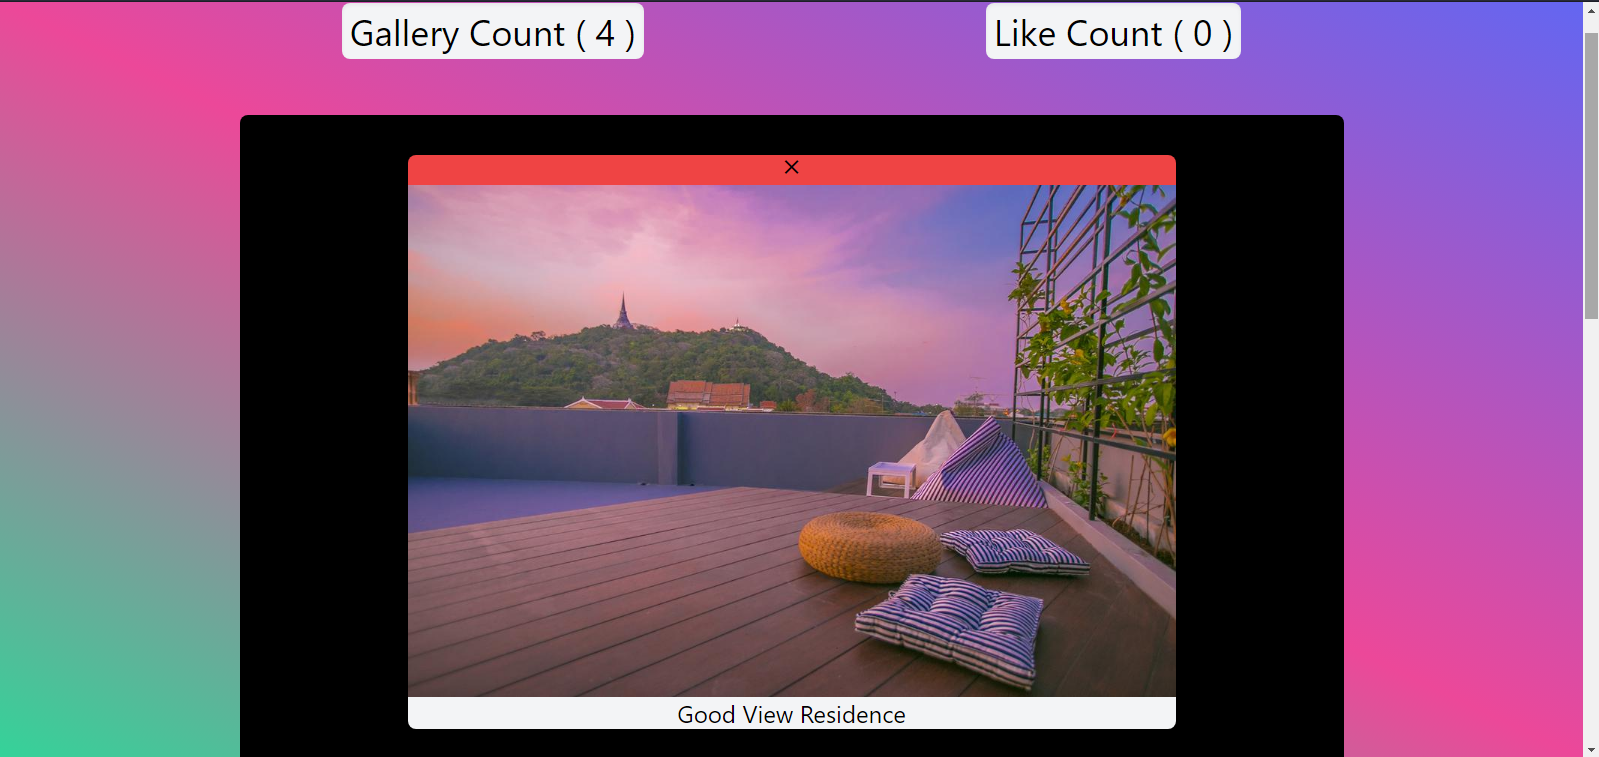
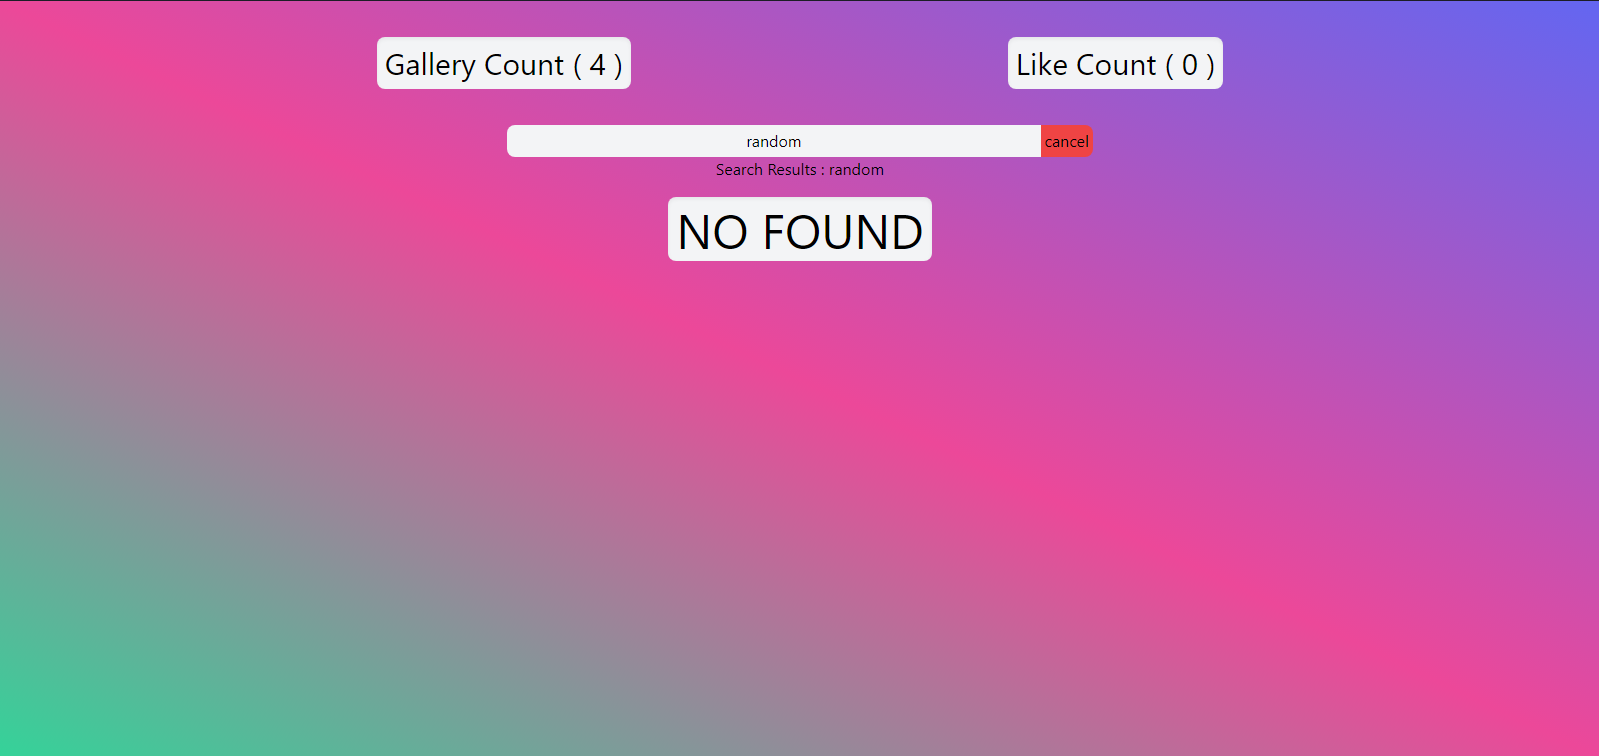
[Add] preview image

diff --git a/index.html b/index.html
@@ -33,7 +33,7 @@
 
     <div id="app" class="w-full h-full ">
         <div class="">
-            <div class="text-4xl text-center py-10 flex justify-evenly">
+            <div class="text-3xl text-center py-9 flex justify-evenly">
                 <h1 class="bg-gray-100 p-2 rounded-lg shadow-inner">Gallery Count ( {{countpic}} ) </h1>
                 <h1 class="bg-gray-100 p-2 rounded-lg shadow-inner">Like Count ( {{countlike}} )</h1>
             </div>
@@ -55,7 +55,7 @@
         </div>
         <div class="grid justify-items-center space-y-4">
             <div v-show="havetext">Search Results : {{filterpic}}</div>
-            <div v-show="haveResult" class="text-5xl">NO FOUND</div>
+            <div v-show="haveResult" class="text-5xl bg-gray-100 p-2 rounded-lg shadow-inner">NO FOUND</div>
 
             <div v-show="viewpic.showviewpic" class="flex justify-center text-center bg-black p-10 rounded-lg">
                 <div class="w-3/4">
@@ -72,7 +72,7 @@
                 </div>
             </div>
 
-            <div class="w-1/2">
+            <div class=" grid grid-cols-2">
                 <ul v-for="(pic,index) in chosenpic">
                     <li v-show="showpic"
                         :class="[pic.like ? 'group cursor-pointer shadow-inner flex bg-pink-300 hover:bg-pink-400 transition duration-500 rounded-lg m-4':'group cursor-pointer shadow-inner flex bg-gray-200 hover:bg-gray-400 transition duration-500 rounded-lg m-4']">
